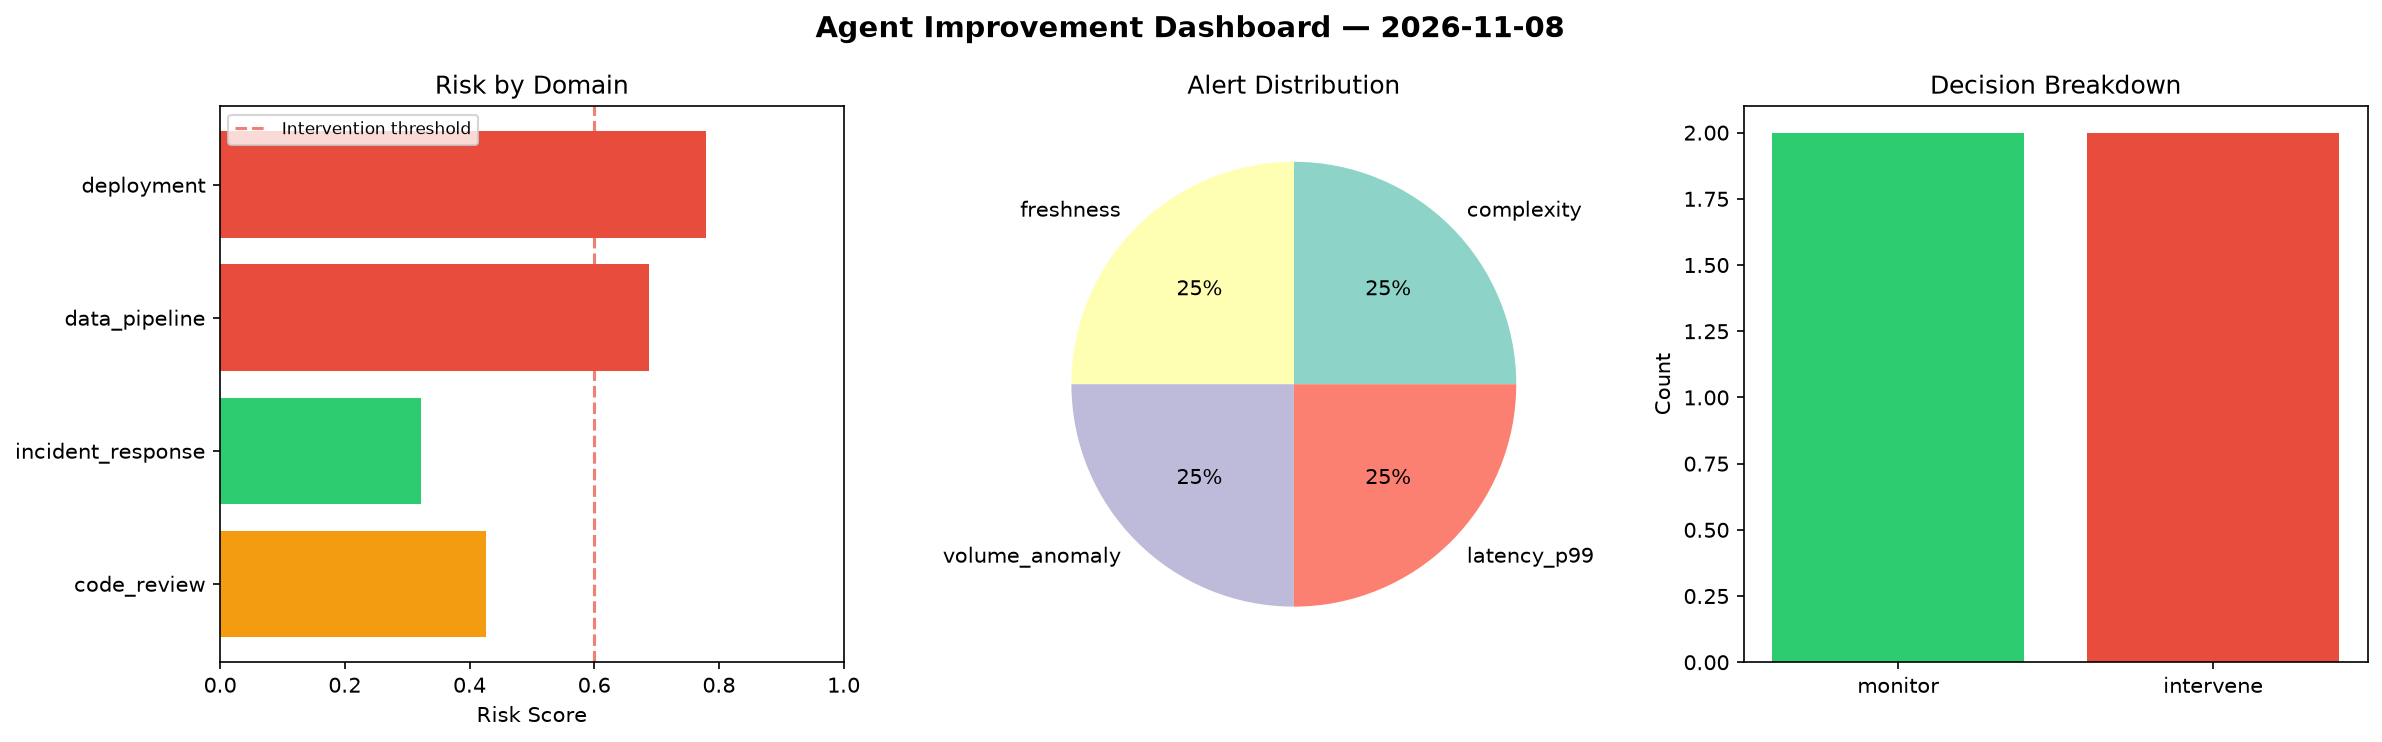
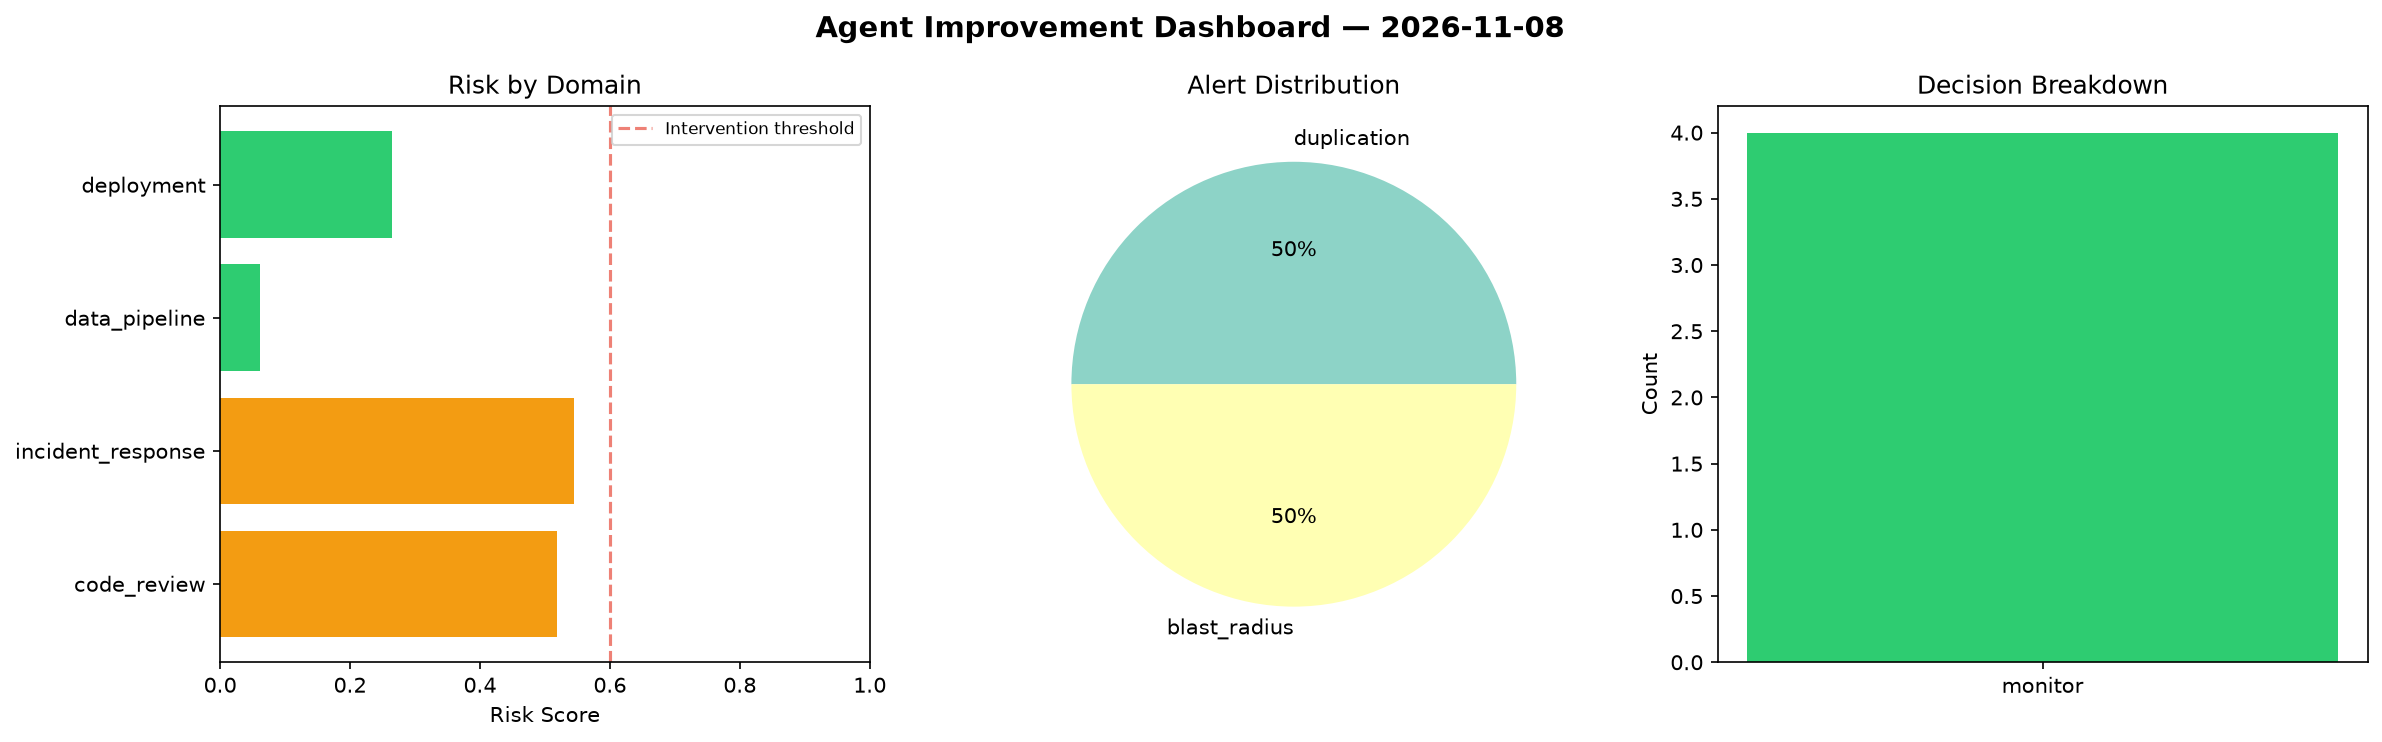
agent-improvement: daily cycle 2026-11-08T15:11

diff --git a/logs/2026-11-08.md b/logs/2026-11-08.md
@@ -1,6 +1,6 @@
 # Agent Improvement Report — 2026-11-08
 
-**Cycle ID:** `23fa0181` | **Avg Risk:** 0.5536 | **Interventions:** 2/4
+**Cycle ID:** `a7f58c74` | **Avg Risk:** 0.347 | **Interventions:** 0/4
 
 ![Dashboard](2026-11-08_dashboard.png)
 
@@ -10,18 +10,18 @@
 
 | Domain | Risk Score | Decision | Alerts |
 |--------|-----------|----------|--------|
-| code_review | 0.4257 | monitor | complexity |
-| incident_response | 0.322 | monitor | none |
-| data_pipeline | 0.6876 | intervene | freshness, volume_anomaly |
-| deployment | 0.7792 | intervene | latency_p99 |
+| code_review | 0.5184 | monitor | duplication |
+| incident_response | 0.5445 | monitor | blast_radius |
+| data_pipeline | 0.0611 | monitor | none |
+| deployment | 0.2642 | monitor | none |
 
 ## Delta vs Yesterday
 
 | Domain | Today | Yesterday | Change |
 |--------|-------|-----------|--------|
-| code_review | 0.4257 | 0.6723 | 📉 -36.7% |
-| incident_response | 0.322 | 0.4254 | 📉 -24.3% |
-| data_pipeline | 0.6876 | 0.5038 | 📈 36.5% |
-| deployment | 0.7792 | 0.3514 | 📈 121.7% |
+| code_review | 0.5184 | 0.6723 | 📉 -22.9% |
+| incident_response | 0.5445 | 0.4254 | 📈 28.0% |
+| data_pipeline | 0.0611 | 0.5038 | 📉 -87.9% |
+| deployment | 0.2642 | 0.3514 | 📉 -24.8% |
 
-**Refinement:** `{'adjustment': 'tighten_thresholds', 'trend': 'degrading', 'window': 4}`
+**Refinement:** `{'adjustment': 'maintain', 'trend': 'improving', 'window': 4}`
